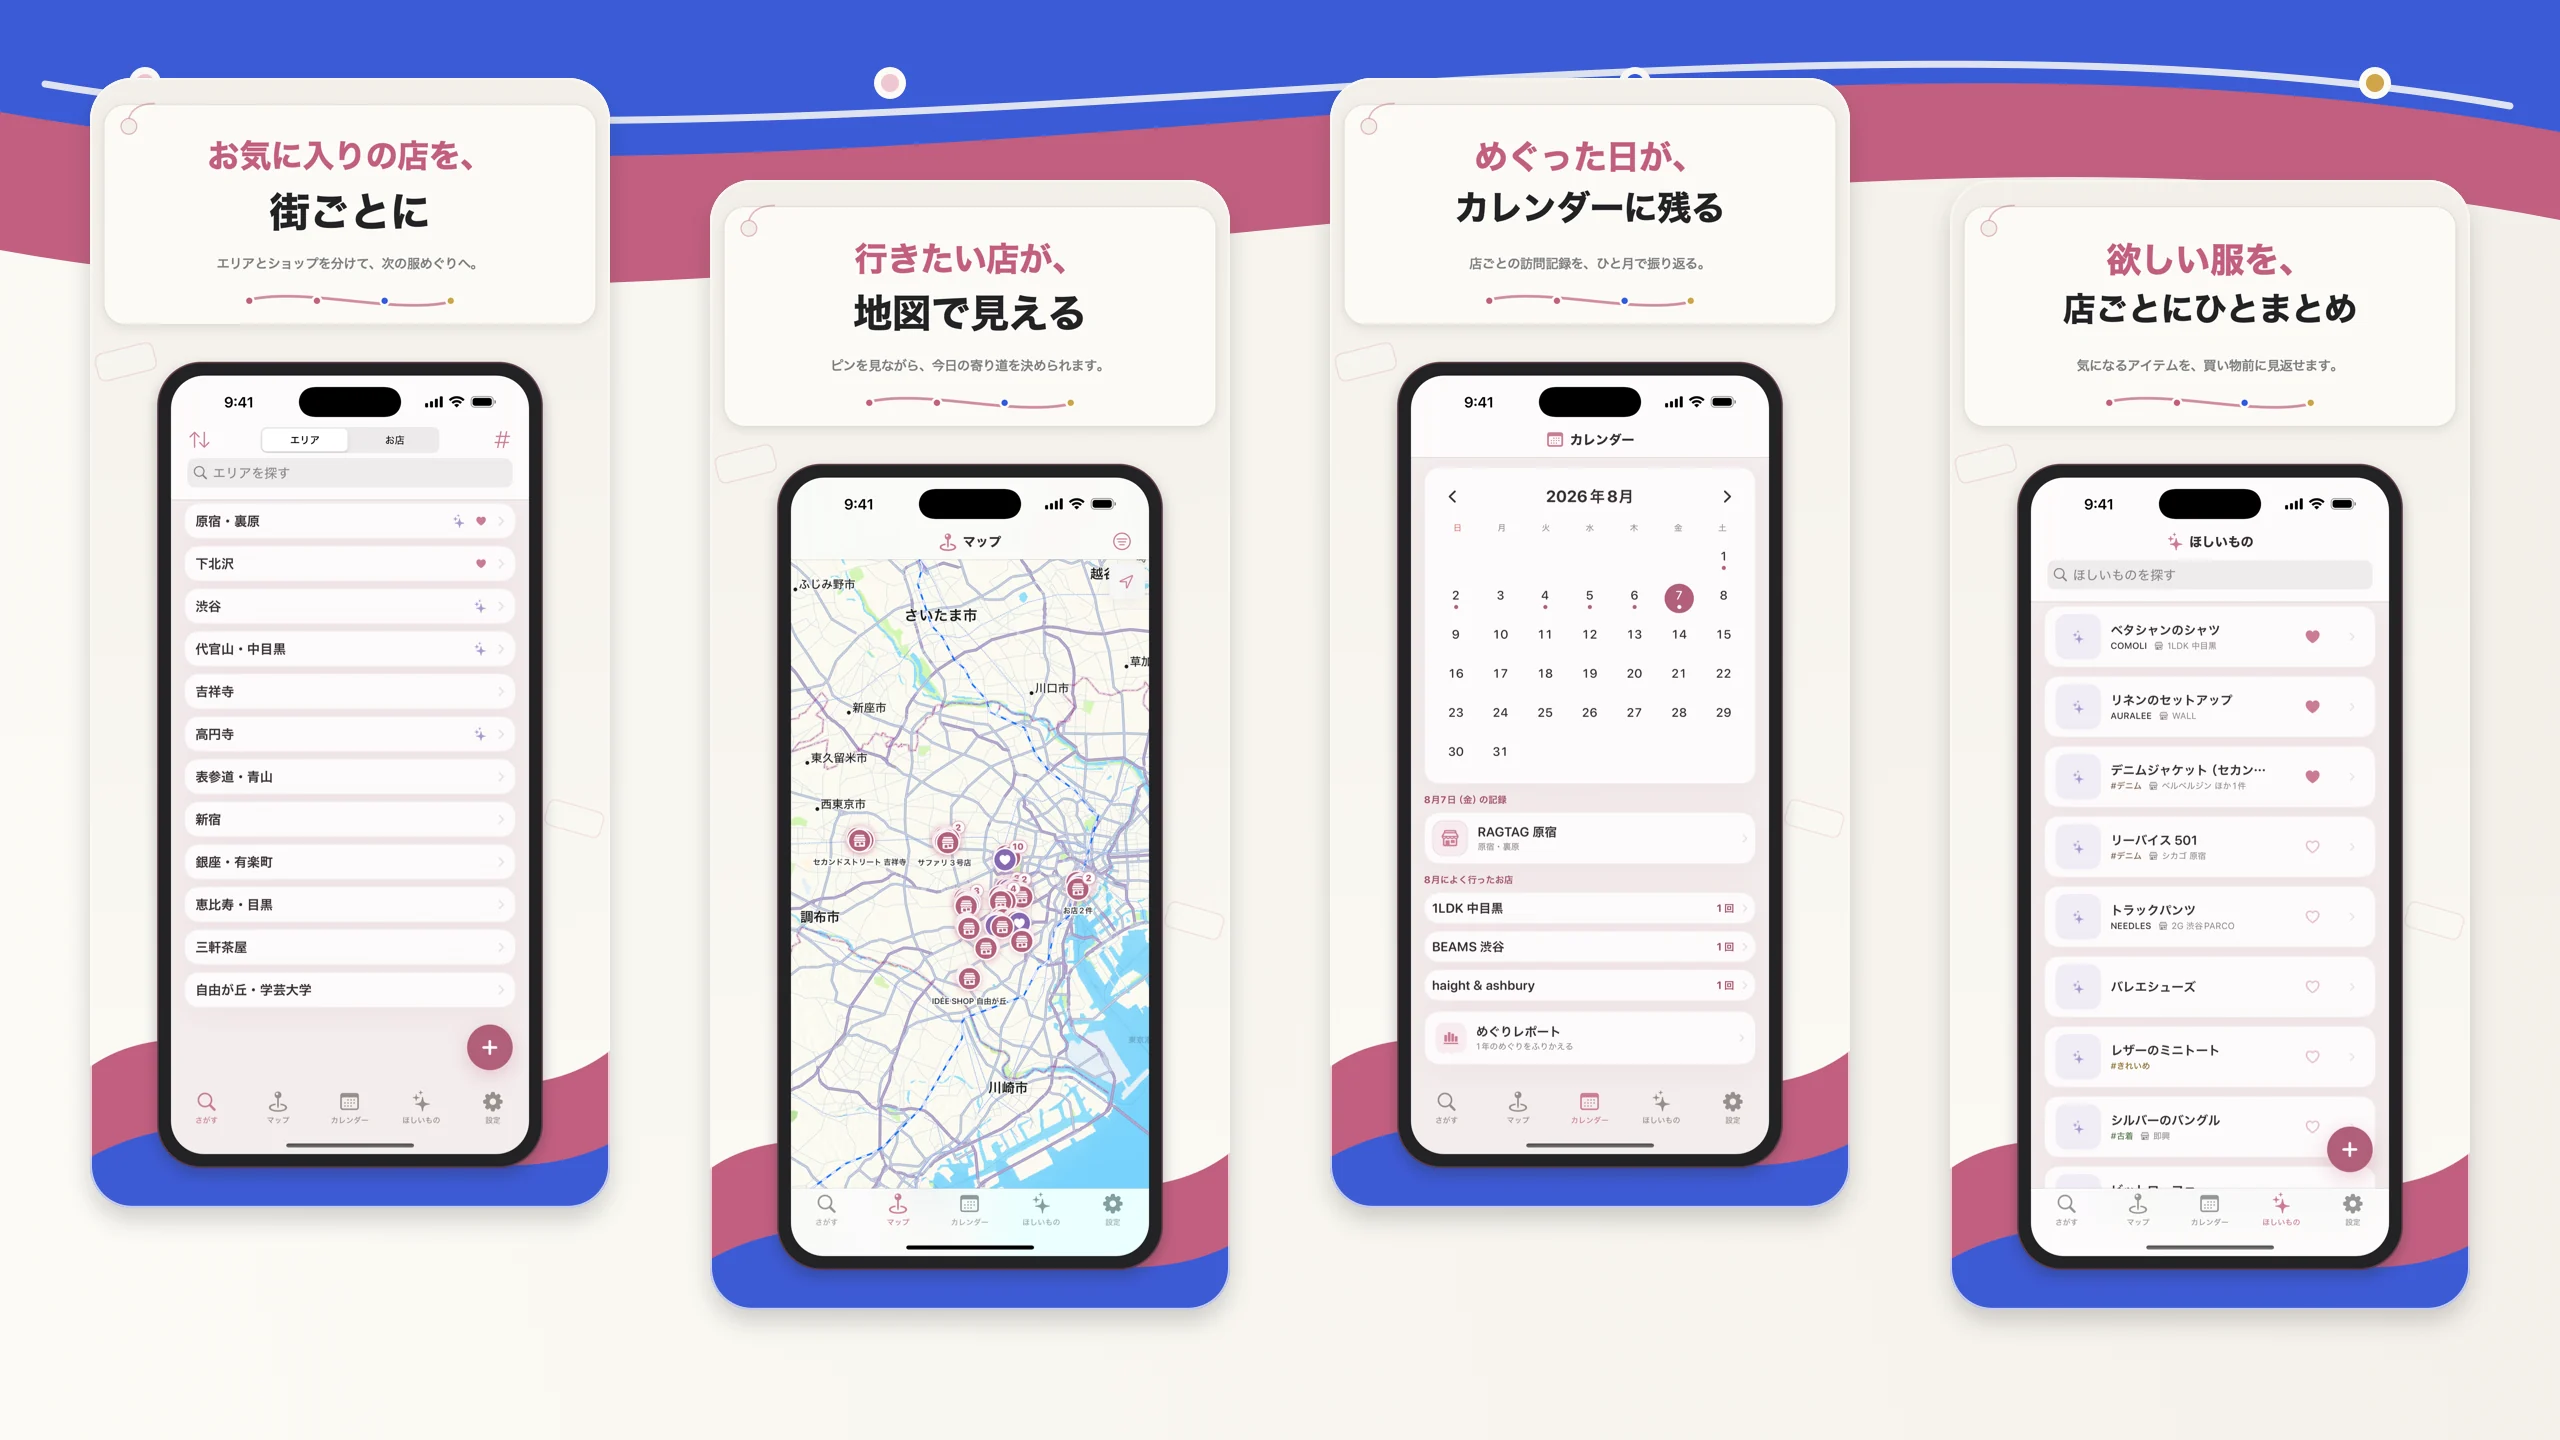
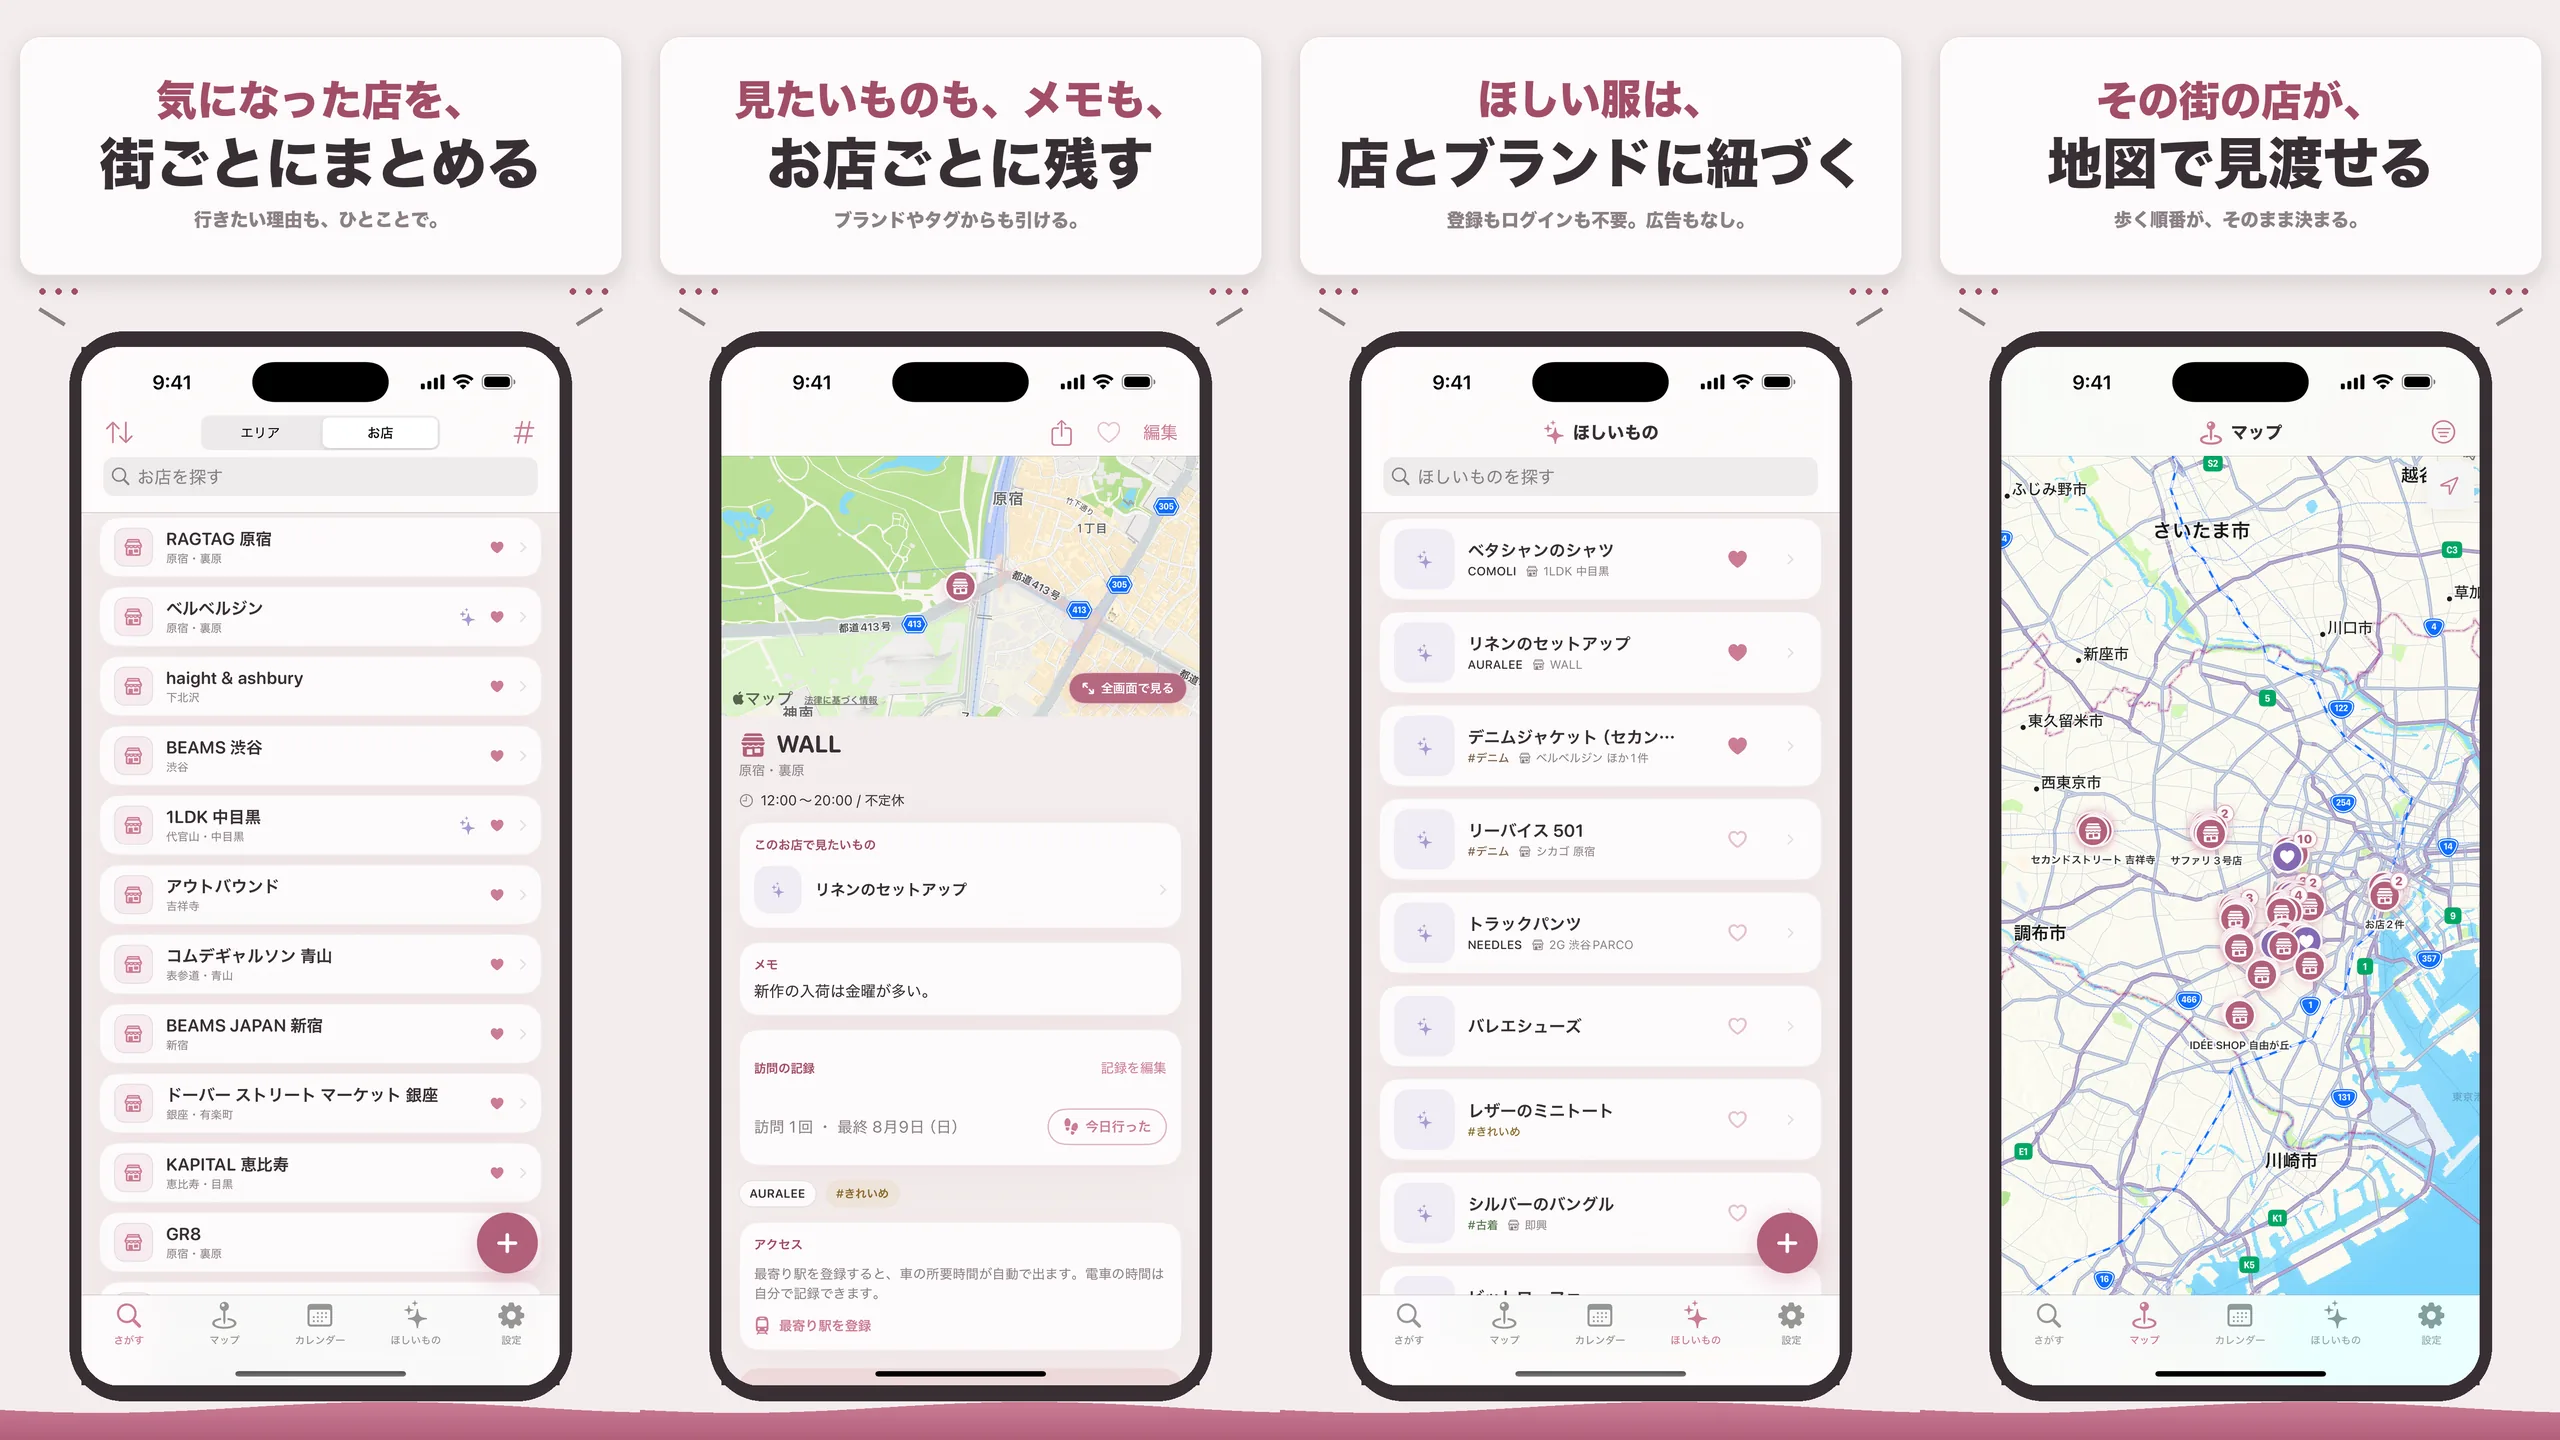
fix(fukumeguri): めぐりレポートを落とし、掲載画像を訴求画像に差し替える
アプリ側でめぐりレポートを機能ごと削除したので、公開ページからも外す。

- 日英とも「一年をふりかえる / Look back on the year」のカードを削除
- 日英の meta description・サブコピーから「一年ぶんのふりかえり」を外し、
  実装が残っている月ランキングに言い換えた
- 4画面スプライト（app-image.webp / app-image-en.webp）を差し替え。
  中身は App Store の掲載画像と同じもので、
  さがす（お店）→ お店の詳細 → ほしいもの → マップ の順。
  以前の画像はカレンダー画面にめぐりレポートへの導線が写っていた
- sr-only の読み上げ文も4画面の中身に合わせて書き直した

画像は FukuMeguri リポジトリの scripts/compose-lp-image.py で作っている。
以前は作った仕組みがどこにも残っておらず、差し替えができなかった。

Claude-Session: https://claude.ai/code/session_01EJDVMm1osuYn2p1XnhqhaB

diff --git a/fukumeguri/index.html b/fukumeguri/index.html
@@ -4,7 +4,7 @@
 <meta charset="UTF-8">
 <meta name="viewport" content="width=device-width, initial-scale=1">
 <title>TempuraApps | 服メグリ — 好きな店を、めぐりにいこう。</title>
-<meta name="description" content="気になったお店を街ごとにまとめて、地図で見渡す。行った日はカレンダーに残り、一年ぶんのめぐりを振り返れます。記録は端末内だけ、アカウント不要・広告なしのiPhone向け店めぐり記録アプリ。">
+<meta name="description" content="気になったお店を街ごとにまとめて、地図で見渡す。行った日はカレンダーに残り、その月によく行ったお店もわかります。記録は端末内だけ、アカウント不要・広告なしのiPhone向け店めぐり記録アプリ。">
 <meta name="theme-color" content="#F3EDEC" media="(prefers-color-scheme: light)">
 <meta name="theme-color" content="#1F1A1E" media="(prefers-color-scheme: dark)">
 <link rel="canonical" href="https://tempuraapps.github.io/fukumeguri/">
@@ -292,7 +292,7 @@
       <img class="app-icon" src="./icon-384.jpg" width="128" height="128" fetchpriority="high" alt="服メグリ（アプリアイコン）">
       <p class="eyebrow">服メグリ</p>
       <h1><span class="nowrap">好きな店を</span>、<span class="nowrap">めぐりにいこう。</span></h1>
-      <p class="subcopy">気になったお店を街ごとにまとめて、地図で見渡す。行った日はカレンダーに残り、一年ぶんのめぐりを振り返れます。アカウント不要・広告なしの、店めぐりの記録アプリです。</p>
+      <p class="subcopy">気になったお店を街ごとにまとめて、地図で見渡す。行った日はカレンダーに残り、その月によく行ったお店もわかります。アカウント不要・広告なしの、店めぐりの記録アプリです。</p>
       <!-- 審査通過後にここへ App Store バッジ／ダウンロードボタンを置く。
            あわせて CTA セクションの本文にも導線を足すこと。 -->
       <p class="platform">iOS 18.0 以降 / iPhone 向け</p>
@@ -302,7 +302,7 @@
   <section class="shots" aria-label="アプリの画面">
     <div class="wrap">
       <figure class="shot">
-        <p class="sr-only">アプリの4画面。1. さがす「お気に入りの店を、街ごとに — エリアとショップを分けて、次の服めぐりへ。」2. マップ「行きたい店が、地図で見える — ピンを見ながら、今日の寄り道を決められます。」3. カレンダー「めぐった日が、カレンダーに残る — 店ごとの訪問記録を、ひと月で振り返る。」4. ほしいもの「欲しい服を、店ごとにひとまとめ — 気になるアイテムを、買い物前に見返せます。」</p>
+        <p class="sr-only">アプリの4画面。1. さがす「気になった店を、街ごとにまとめる — 行きたい理由も、ひとことで。」2. お店の詳細「見たいものも、メモも、お店ごとに残す — ブランドやタグからも引ける。」3. ほしいもの「ほしい服は、店とブランドに紐づく — 登録もログインも不要。広告もなし。」4. マップ「その街の店が、地図で見渡せる — 歩く順番が、そのまま決まる。」</p>
         <div class="shot-frame">
           <div class="shot-track">
             <button type="button" class="shot-slide" style="--i:0" aria-label="1枚目の画面を拡大"><img src="./app-image.webp" alt="" decoding="async"></button>
@@ -346,13 +346,6 @@
           </div>
           <h3>行った日を残す</h3>
           <p>お店のページで「今日行った」を押すだけ。訪問がカレンダーに積み上がって、その月によく行ったお店も一覧になります。</p>
-        </li>
-        <li class="card">
-          <div class="chip" aria-hidden="true">
-            <svg viewBox="0 0 24 24" fill="none" stroke="currentColor" stroke-width="1.8" stroke-linecap="round" stroke-linejoin="round" focusable="false"><path d="M4 20V13"/><path d="M9.3 20V8"/><path d="M14.7 20v-5"/><path d="M20 20V4"/></svg>
-          </div>
-          <h3>一年をふりかえる</h3>
-          <p>めぐりレポートで、その年の訪問回数・よくめぐったお店・よく足を運んだ系統のタグをまとめて見返せます。去年より歩いたかどうかが、数字で残ります。</p>
         </li>
         <li class="card">
           <div class="chip" aria-hidden="true">

diff --git a/fukumeguri/en/index.html b/fukumeguri/en/index.html
@@ -288,7 +288,7 @@
       <img class="app-icon" src="../icon-384.jpg" width="128" height="128" fetchpriority="high" alt="FukuMeguri app icon">
       <p class="eyebrow">FukuMeguri</p>
       <h1>Go visit the shops you love.</h1>
-      <p class="subcopy">Group the shops that caught your eye by neighborhood, and see them all on one map. Every visit you log lands on the calendar, and a whole year of browsing is there to look back on. Your records stay on your iPhone. No account, no ads.</p>
+      <p class="subcopy">Group the shops that caught your eye by neighborhood, and see them all on one map. Every visit you log lands on the calendar, along with the shops you went to most that month. Your records stay on your iPhone. No account, no ads.</p>
       <!-- 審査通過後にここへ App Store バッジ／ダウンロードボタンを置く。
            あわせて CTA セクションの本文にも導線を足すこと。 -->
       <p class="platform">iOS 18.0 or later / iPhone</p>
@@ -298,7 +298,7 @@
   <section class="shots" aria-label="App screens">
     <div class="wrap">
       <figure class="shot">
-        <p class="sr-only">Four app screens. 1. Browse: &ldquo;Your favorite shops, organized by area &mdash; Keep every area and shop ready for your next outing.&rdquo; 2. Map: &ldquo;See every stop on the map &mdash; Plan where to browse next, one pin at a time.&rdquo; 3. Calendar: &ldquo;Every shopping day, remembered &mdash; Review your shop visits across the month.&rdquo; 4. Wishlist: &ldquo;Keep your wishlist with each shop &mdash; Save what caught your eye before your next visit.&rdquo;</p>
+        <p class="sr-only">Four app screens. 1. Browse: &ldquo;The shops you noticed, grouped by neighborhood &mdash; Add a line on why you want to go.&rdquo; 2. Shop detail: &ldquo;What you want to see, saved with the shop &mdash; Findable by brand and tag.&rdquo; 3. Wishlist: &ldquo;The pieces you want, tied to shop and brand &mdash; No account, no login, no ads.&rdquo; 4. Map: &ldquo;Every shop in the area, on one map &mdash; Your route plans itself.&rdquo;</p>
         <div class="shot-frame">
           <div class="shot-track">
             <button type="button" class="shot-slide" style="--i:0" aria-label="Enlarge screen 1"><img src="../app-image-en.webp" alt="" decoding="async"></button>
@@ -342,13 +342,6 @@
           </div>
           <h3>Log the day you went</h3>
           <p>Tap &ldquo;Visited today&rdquo; on a shop&rsquo;s page. Visits stack up on the calendar, and the shops you went to most that month are listed for you.</p>
-        </li>
-        <li class="card">
-          <div class="chip" aria-hidden="true">
-            <svg viewBox="0 0 24 24" fill="none" stroke="currentColor" stroke-width="1.8" stroke-linecap="round" stroke-linejoin="round" focusable="false"><path d="M4 20V13"/><path d="M9.3 20V8"/><path d="M14.7 20v-5"/><path d="M20 20V4"/></svg>
-          </div>
-          <h3>Look back on the year</h3>
-          <p>Year in Review gathers your visits, the shops you went back to most, and the kinds of shop your visits kept leading you to. Whether you got out more than last year is there in numbers.</p>
         </li>
         <li class="card">
           <div class="chip" aria-hidden="true">
